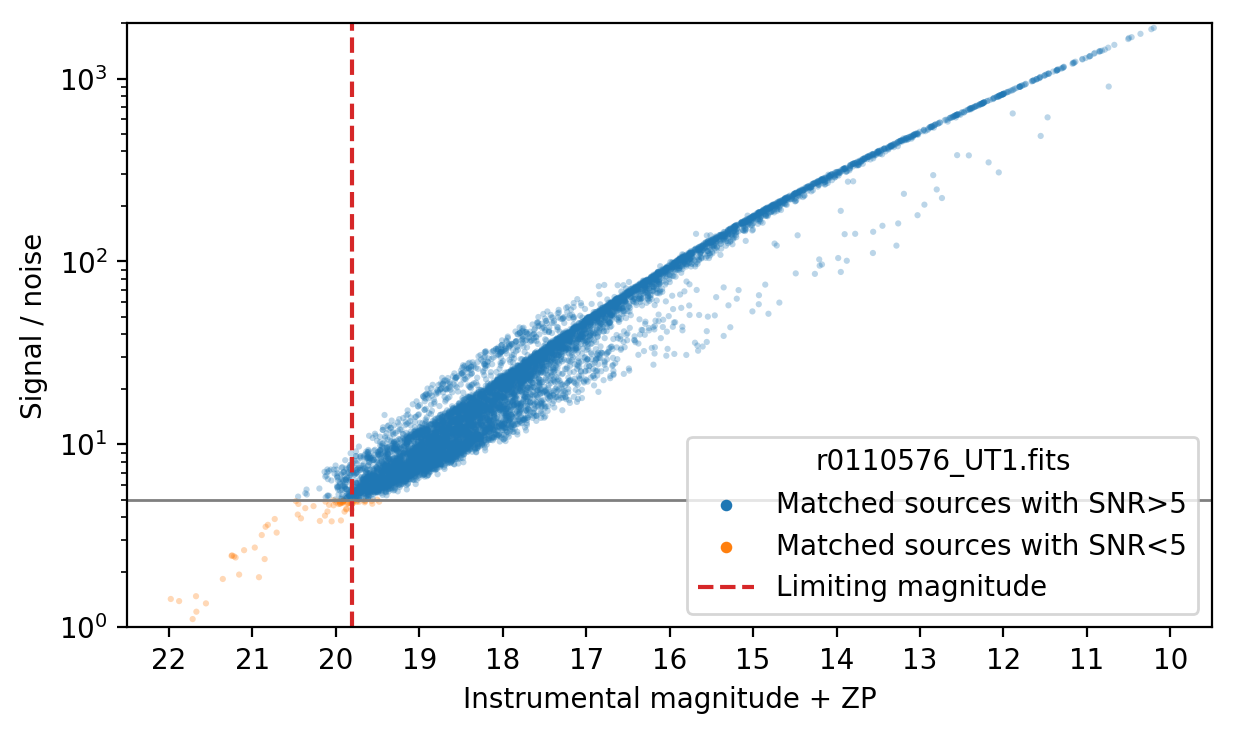
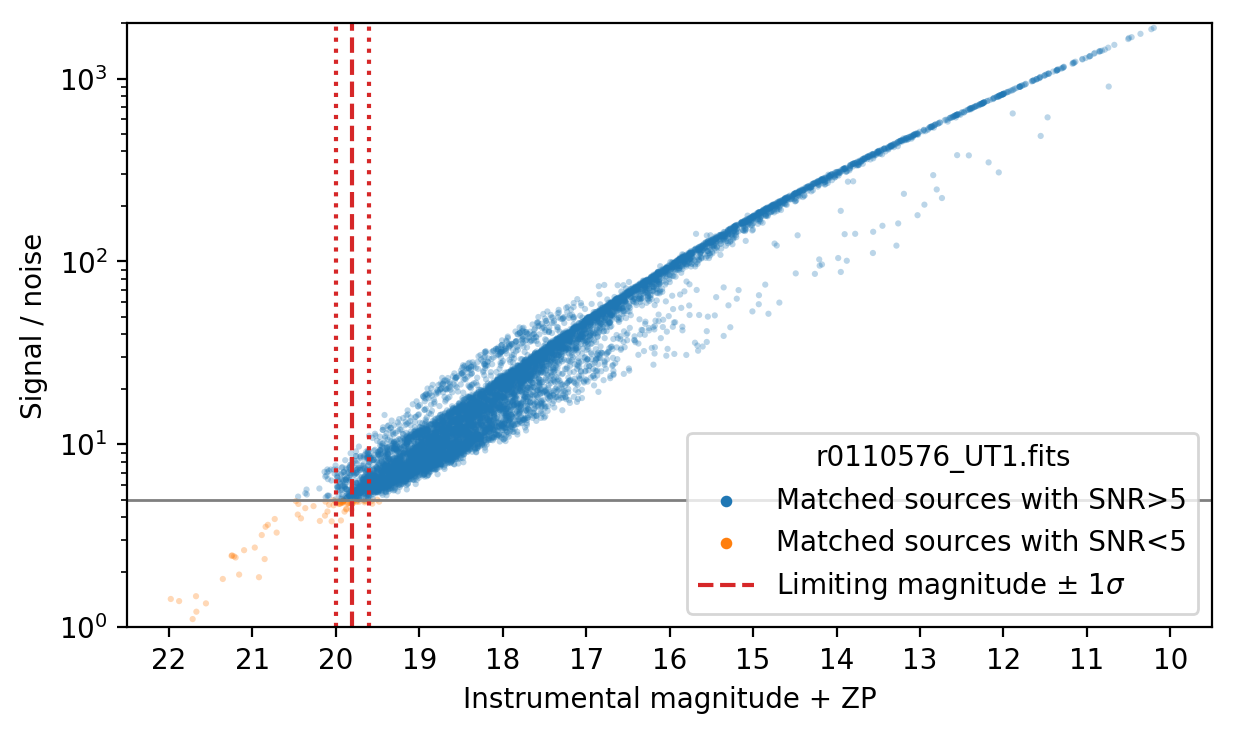
Reword results (again)

Changed region(s): [[0.5538, 0.5695, 0.9846, 0.8093]]

diff --git a/chapters/hardware.tex b/chapters/hardware.tex
@@ -1176,7 +1176,7 @@ As GOTO uses the non-standard Baader filters (see \aref{sec:filters}) there are 
 
 In order to find the zeropoint for each image a linear function was fitted between the measured instrumental magnitudes of each source and the catalogue magnitude of the star it was matched against, with the y-intercept being equal to the zeropoint for that image. This is shown in \aref{fig:zeropoint} for one of the \textit{L}-band images. To exclude low-magnitude sources with large errors when fitting only sources with an SNR of 5$\sigma$ or above were included. This was repeated for every image, and the zeropoints for each are given in \aref{tab:zps_lms}.
 
-Once the zeropoint had been determined the measured instrumental magnitudes were converted into calibrated magnitudes by adding the zeropoint. Then the $5\sigma$ limiting magnitude was taken as the mean calibrated magnitude of sources with a signal to noise ratio between 4.5 and 5.5. This method is plotted in \aref{fig:lim_mag}, and the limiting magnitude values are also given in  \aref{tab:zps_lms}.
+Once the zeropoint had been determined the measured instrumental magnitudes were converted into calibrated magnitudes by adding the zeropoint. Then the $5\sigma$ limiting magnitude was taken as the mean calibrated magnitude of sources with a signal to noise ratio between 4.5 and 5.5. This method is plotted in \aref{fig:lim_mag}, and the limiting magnitude values and error values are also given in  \aref{tab:zps_lms}.
 
 \newpage
 
@@ -1189,9 +1189,9 @@ Once the zeropoint had been determined the measured instrumental magnitudes were
     }\label{fig:lim_mag}
 \end{figure}
 
-For each of the 16 filter and unit telescope combinations the best (highest) zeropoints and limiting magnitudes were selected from the set of three images. These are given in \aref{tab:zps_lms_comparison} along with the difference from the theoretical AB magnitude zeropoints given in \aref{tab:pysynphot_zeropoints} and the theoretical limiting magnitudes given in \aref{tab:lim_mags}.
+For each of the 16 filter and unit telescope combinations the best zeropoints and limiting magnitudes were selected from the set of three images. These are given in \aref{tab:zps_comparison} and \aref{tab:lms_comparison}, and are compared to the theoretical AB magnitude zeropoints given in \aref{tab:pysynphot_zeropoints} and the theoretical limiting magnitudes given in \aref{tab:lim_mags}.
 
-In most cases the observed zeropoints are very close to the theoretical model values, while the limiting magnitudes are consistently higher than predicted. Further images taken over more nights would be needed to make any firm conclusions but a few trends are clear. UT3 consistently has a better observed zeropoint than the others, this might be expected as it was the last mirror to be serviced just a few months before the images were taken and therefore would be clear of any dust or imperfections the other mirrors have built up. On the other hand UT1 is consistently the worst performing of the four in both zeropoint and limiting magnitude, particularly in the \textit{R} filter. It is also clear that the throughput in the \textit{G} band has been underestimated as the observations have notably higher zeropoints and limiting magnitudes than predicted.
+In most cases the observed zeropoints are very close to the theoretical model values, while the limiting magnitudes are usually within one sigma of the theoretical value. Further images taken over more nights would be needed to make any firm conclusions but a few trends are clear. UT3 consistently has a better observed zeropoints than the others, followed by UT2. This matches the order the mirrors were serviced, with UT3 having only been returned to the telescope a month before the images were taken. Therefore the deficit in the observed zeropoints may be due to dust or imperfections that build up on the mirrors and reduce the throughput. It is also clear that the throughput in the \textit{G} band has been underestimated, as the observations have notably higher zeropoints and better limiting magnitudes than predicted.
 
 \newpage
 
@@ -1210,60 +1210,130 @@ In most cases the observed zeropoints are very close to the theoretical model va
             \multicolumn{2}{c|}{{\footnotesize(ML0420516)}} &
             \multicolumn{2}{c}{{\footnotesize(ML5644917)}}
             \\
-            Filter & Run &
+            \multicolumn{2}{c|}{Filter} &
             ZP & LM & ZP & LM & ZP & LM & ZP & LM \\
             \midrule
-            \textit{L} & 1 & 22.32 & 19.80 & 22.31 & 19.73 & 22.40 & 19.77 & 22.32 & 19.70 \\
-                       & 2 & 22.26 & 19.72 & 22.27 & 19.61 & 22.44 & 19.87 & 22.37 & 19.76 \\
-                       & 3 & 22.39 & 19.83 & 22.42 & 19.95 & 22.45 & 19.89 & 22.40 & 19.84 \\
+            \textit{L} & 1 &
+            22.32 & $19.8 \pm 0.2$ &
+            22.31 & $19.7 \pm 0.3$ &
+            22.40 & $19.8 \pm 0.2$ &
+            22.32 & $19.7 \pm 0.1$
+            \\
+             & 2 &
+            22.26 & $19.7 \pm 0.2$ &
+            22.27 & $19.6 \pm 0.2$ &
+            22.44 & $19.9 \pm 0.2$ &
+            22.37 & $19.8 \pm 0.4$
+            \\
+             & 3 &
+            22.39 & $19.8 \pm 0.2$ &
+            22.42 & $20.0 \pm 0.4$ &
+            22.45 & $19.9 \pm 0.2$ &
+            22.40 & $19.8 \pm 0.3$
+            \\
             \midrule
-            \textit{R} & 1 & 20.83 & 18.44 & 21.05 & 18.63 & 21.10 & 18.67 & 21.05 & 18.63 \\
-                       & 2 & 20.84 & 18.42 & 21.11 & 18.77 & 21.13 & 18.69 & 21.06 & 18.64 \\
-                       & 3 & 20.91 & 18.49 & 21.01 & 18.64 & 21.04 & 18.57 & 20.94 & 18.52 \\
+            \textit{R} & 1 &
+            20.83 & $18.4 \pm 0.2$ &
+            21.05 & $18.6 \pm 0.2$ &
+            21.10 & $18.7 \pm 0.1$ &
+            21.05 & $18.6 \pm 0.3$
+            \\
+             & 2 &
+            20.84 & $18.4 \pm 0.2$ &
+            21.11 & $18.8 \pm 0.3$ &
+            21.13 & $18.7 \pm 0.2$ &
+            21.06 & $18.6 \pm 0.3$
+            \\
+             & 3 &
+            20.91 & $18.5 \pm 0.2$ &
+            21.01 & $18.6 \pm 0.4$ &
+            21.04 & $18.6 \pm 0.2$ &
+            20.94 & $18.5 \pm 0.1$
+            \\
             \midrule
-            \textit{G} & 1 & 21.20 & 18.84 & 21.39 & 19.03 & 21.40 & 18.96 & 21.27 & 18.88 \\
-                       & 2 & 21.16 & 18.81 & 21.43 & 19.08 & 21.46 & 19.10 & 21.36 & 18.92 \\
-                       & 3 & 21.26 & 18.92 & 21.44 & 19.05 & 21.45 & 19.04 & 21.32 & 18.86 \\
+            \textit{G} & 1 &
+            21.20 & $18.8 \pm 0.2$ &
+            21.39 & $19.0 \pm 0.3$ &
+            21.40 & $19.0 \pm 0.2$ &
+            21.27 & $18.9 \pm 0.3$
+            \\
+             & 2 &
+            21.16 & $18.8 \pm 0.2$ &
+            21.43 & $19.1 \pm 0.3$ &
+            21.46 & $19.1 \pm 0.2$ &
+            21.36 & $18.9 \pm 0.3$
+            \\
+             & 3 &
+            21.26 & $18.9 \pm 0.2$ &
+            21.44 & $19.1 \pm 0.2$ &
+            21.45 & $19.0 \pm 0.1$ &
+            21.32 & $18.9 \pm 0.2$
+            \\
             \midrule
-            \textit{B} & 1 & 21.22 & 18.86 & 21.35 & 19.03 & 21.43 & 19.03 & 21.27 & 19.03 \\
-                       & 2 & 21.22 & 18.91 & 21.32 & 18.88 & 21.44 & 19.08 & 21.22 & 18.95 \\
-                       & 3 & 21.20 & 18.91 & 21.35 & 18.92 & 21.44 & 19.07 & 21.26 & 18.95 \\
+            \textit{B} & 1 &
+            21.22 & $18.9 \pm 0.1$ &
+            21.35 & $19.0 \pm 0.3$ &
+            21.43 & $19.0 \pm 0.2$ &
+            21.27 & $19.0 \pm 0.4$
+            \\
+             & 2 &
+            21.22 & $18.9 \pm 0.2$ &
+            21.32 & $18.9 \pm 0.4$ &
+            21.44 & $19.1 \pm 0.2$ &
+            21.22 & $18.9 \pm 0.3$
+            \\
+             & 3 &
+            21.20 & $18.9 \pm 0.2$ &
+            21.35 & $18.9 \pm 0.4$ &
+            21.44 & $19.1 \pm 0.2$ &
+            21.26 & $19.0 \pm 0.3$
+            \\
         \end{tabular}
     \end{center}
-    \caption[Observed zeropoints and limiting magnitudes for each filter and unit telescope]{
-        Observed zeropoints and limiting magnitudes for each filter and unit telescope.
+    \caption[Observed zeropoints and limiting magnitudes]{
+        Observed zeropoints and limiting magnitudes from three \SI{60}{\second} exposures taken in each filter. The camera serial numbers can be matched to \aref{tab:cameras}.
     }\label{tab:zps_lms}
 \end{table}
 
 \begin{table}[p]
     \begin{center}
-        \begin{tabular}{cr|c|c|c|c} %chktex 44
-                Filter &                  & UT1   & UT2   & UT3   & UT4   \\
+        \begin{tabular}{c|c|cccc|cccc} %chktex 44
+             &
+            Theoretical &
+            \multicolumn{4}{c|}{Best observed zeropoint} &
+            \multicolumn{4}{c}{Difference (obs-theory)}
+            \\
+            Filter & zeropoint & UT1 & UT2 & UT3 & UT4 & UT1 & UT2 & UT3 & UT4 \\
             \midrule
-            \textit{L} & Best observed ZP & 22.39 & 22.42 & 22.45 & 22.40 \\
-                       &  Observed-theory & -0.08 & -0.05 & -0.02 & -0.07 \\
-                       & Best observed LM & 19.83 & 19.95 & 19.89 & 19.84 \\
-                       &  Observed-theory & +0.07 & +0.19 & +0.13 & +0.08 \\
-            \midrule
-            \textit{R} & Best observed ZP & 20.91 & 21.11 & 21.13 & 21.06 \\
-                       &  Observed-theory & -0.27 & -0.07 & -0.05 & -0.12 \\
-                       & Best observed LM & 18.49 & 18.77 & 18.69 & 18.64 \\
-                       &  Observed-theory & -0.02 & +0.26 & +0.18 & +0.13 \\
-            \midrule
-            \textit{G} & Best observed ZP & 21.26 & 21.44 & 21.46 & 21.36 \\
-                       &  Observed-theory & +0.04 & +0.22 & +0.24 & +0.14 \\
-                       & Best observed LM & 18.92 & 19.08 & 19.10 & 18.92 \\
-                       &  Observed-theory & +0.36 & +0.52 & +0.54 & +0.36 \\
-            \midrule
-            \textit{B} & Best observed ZP & 21.22 & 21.35 & 21.44 & 21.27 \\
-                       &  Observed-theory & -0.28 & -0.15 & -0.06 & -0.23 \\
-                       & Best observed LM & 18.91 & 19.03 & 19.08 & 19.03 \\
-                       &  Observed-theory & +0.06 & +0.18 & +0.23 & +0.18 \\
+            \textit{L} & 22.47 & 22.39 & 22.42 & 22.45 & 22.40 & -0.08 & -0.05 & -0.02 & -0.07 \\
+            \textit{R} & 21.18 & 20.91 & 21.11 & 21.13 & 21.06 & -0.27 & -0.07 & -0.05 & -0.12 \\
+            \textit{G} & 21.22 & 21.26 & 21.44 & 21.46 & 21.36 & +0.04 & +0.22 & +0.24 & +0.14 \\
+            \textit{B} & 21.50 & 21.22 & 21.35 & 21.44 & 21.27 & -0.28 & -0.15 & -0.06 & -0.23 \\
         \end{tabular}
     \end{center}
-    \caption[Comparison between theoretical and observed zeropoints and limiting magnitudes]{
-        Comparison between the best observed zeropoints and limiting magnitudes and the theoretical values from \aref{tab:pysynphot_zeropoints} and \aref{tab:lim_mags}.
-    }\label{tab:zps_lms_comparison}
+    \caption[Comparison between theoretical and observed zeropoints]{
+        Comparison between the best observed zeropoints and the theoretical AB magnitude zeropoints from \aref{tab:pysynphot_zeropoints}.
+    }\label{tab:zps_comparison}
+\end{table}
+
+\begin{table}[p]
+    \begin{center}
+        \begin{tabular}{c|c|cccc} %chktex 44
+             &
+            Theoretical &
+            \multicolumn{4}{c}{Best observed limiting magnitude}
+            \\
+            Filter & limiting magnitude & UT1 & UT2 & UT3 & UT4 \\
+            \midrule
+            \textit{L} & 19.76 & $19.8 \pm 0.2$ & $20.0 \pm 0.4$ & $19.9 \pm 0.2$ & $19.8 \pm 0.3$ \\
+            \textit{R} & 18.51 & $18.5 \pm 0.2$ & $18.8 \pm 0.3$ & $18.7 \pm 0.1$ & $18.6 \pm 0.3$ \\
+            \textit{G} & 18.56 & $18.9 \pm 0.2$ & $19.1 \pm 0.2$ & $19.1 \pm 0.2$ & $18.9 \pm 0.2$ \\
+            \textit{B} & 18.85 & $18.9 \pm 0.2$ & $19.0 \pm 0.3$ & $19.1 \pm 0.2$ & $19.0 \pm 0.4$ \\
+        \end{tabular}
+    \end{center}
+    \caption[Comparison between theoretical and observed limiting magnitudes]{
+        Comparison between the best observed limiting magnitudes and the theoretical dark-time limiting magnitudes from \aref{tab:lim_mags}.
+    }\label{tab:lms_comparison}
 \end{table}
 
 \clearpage
